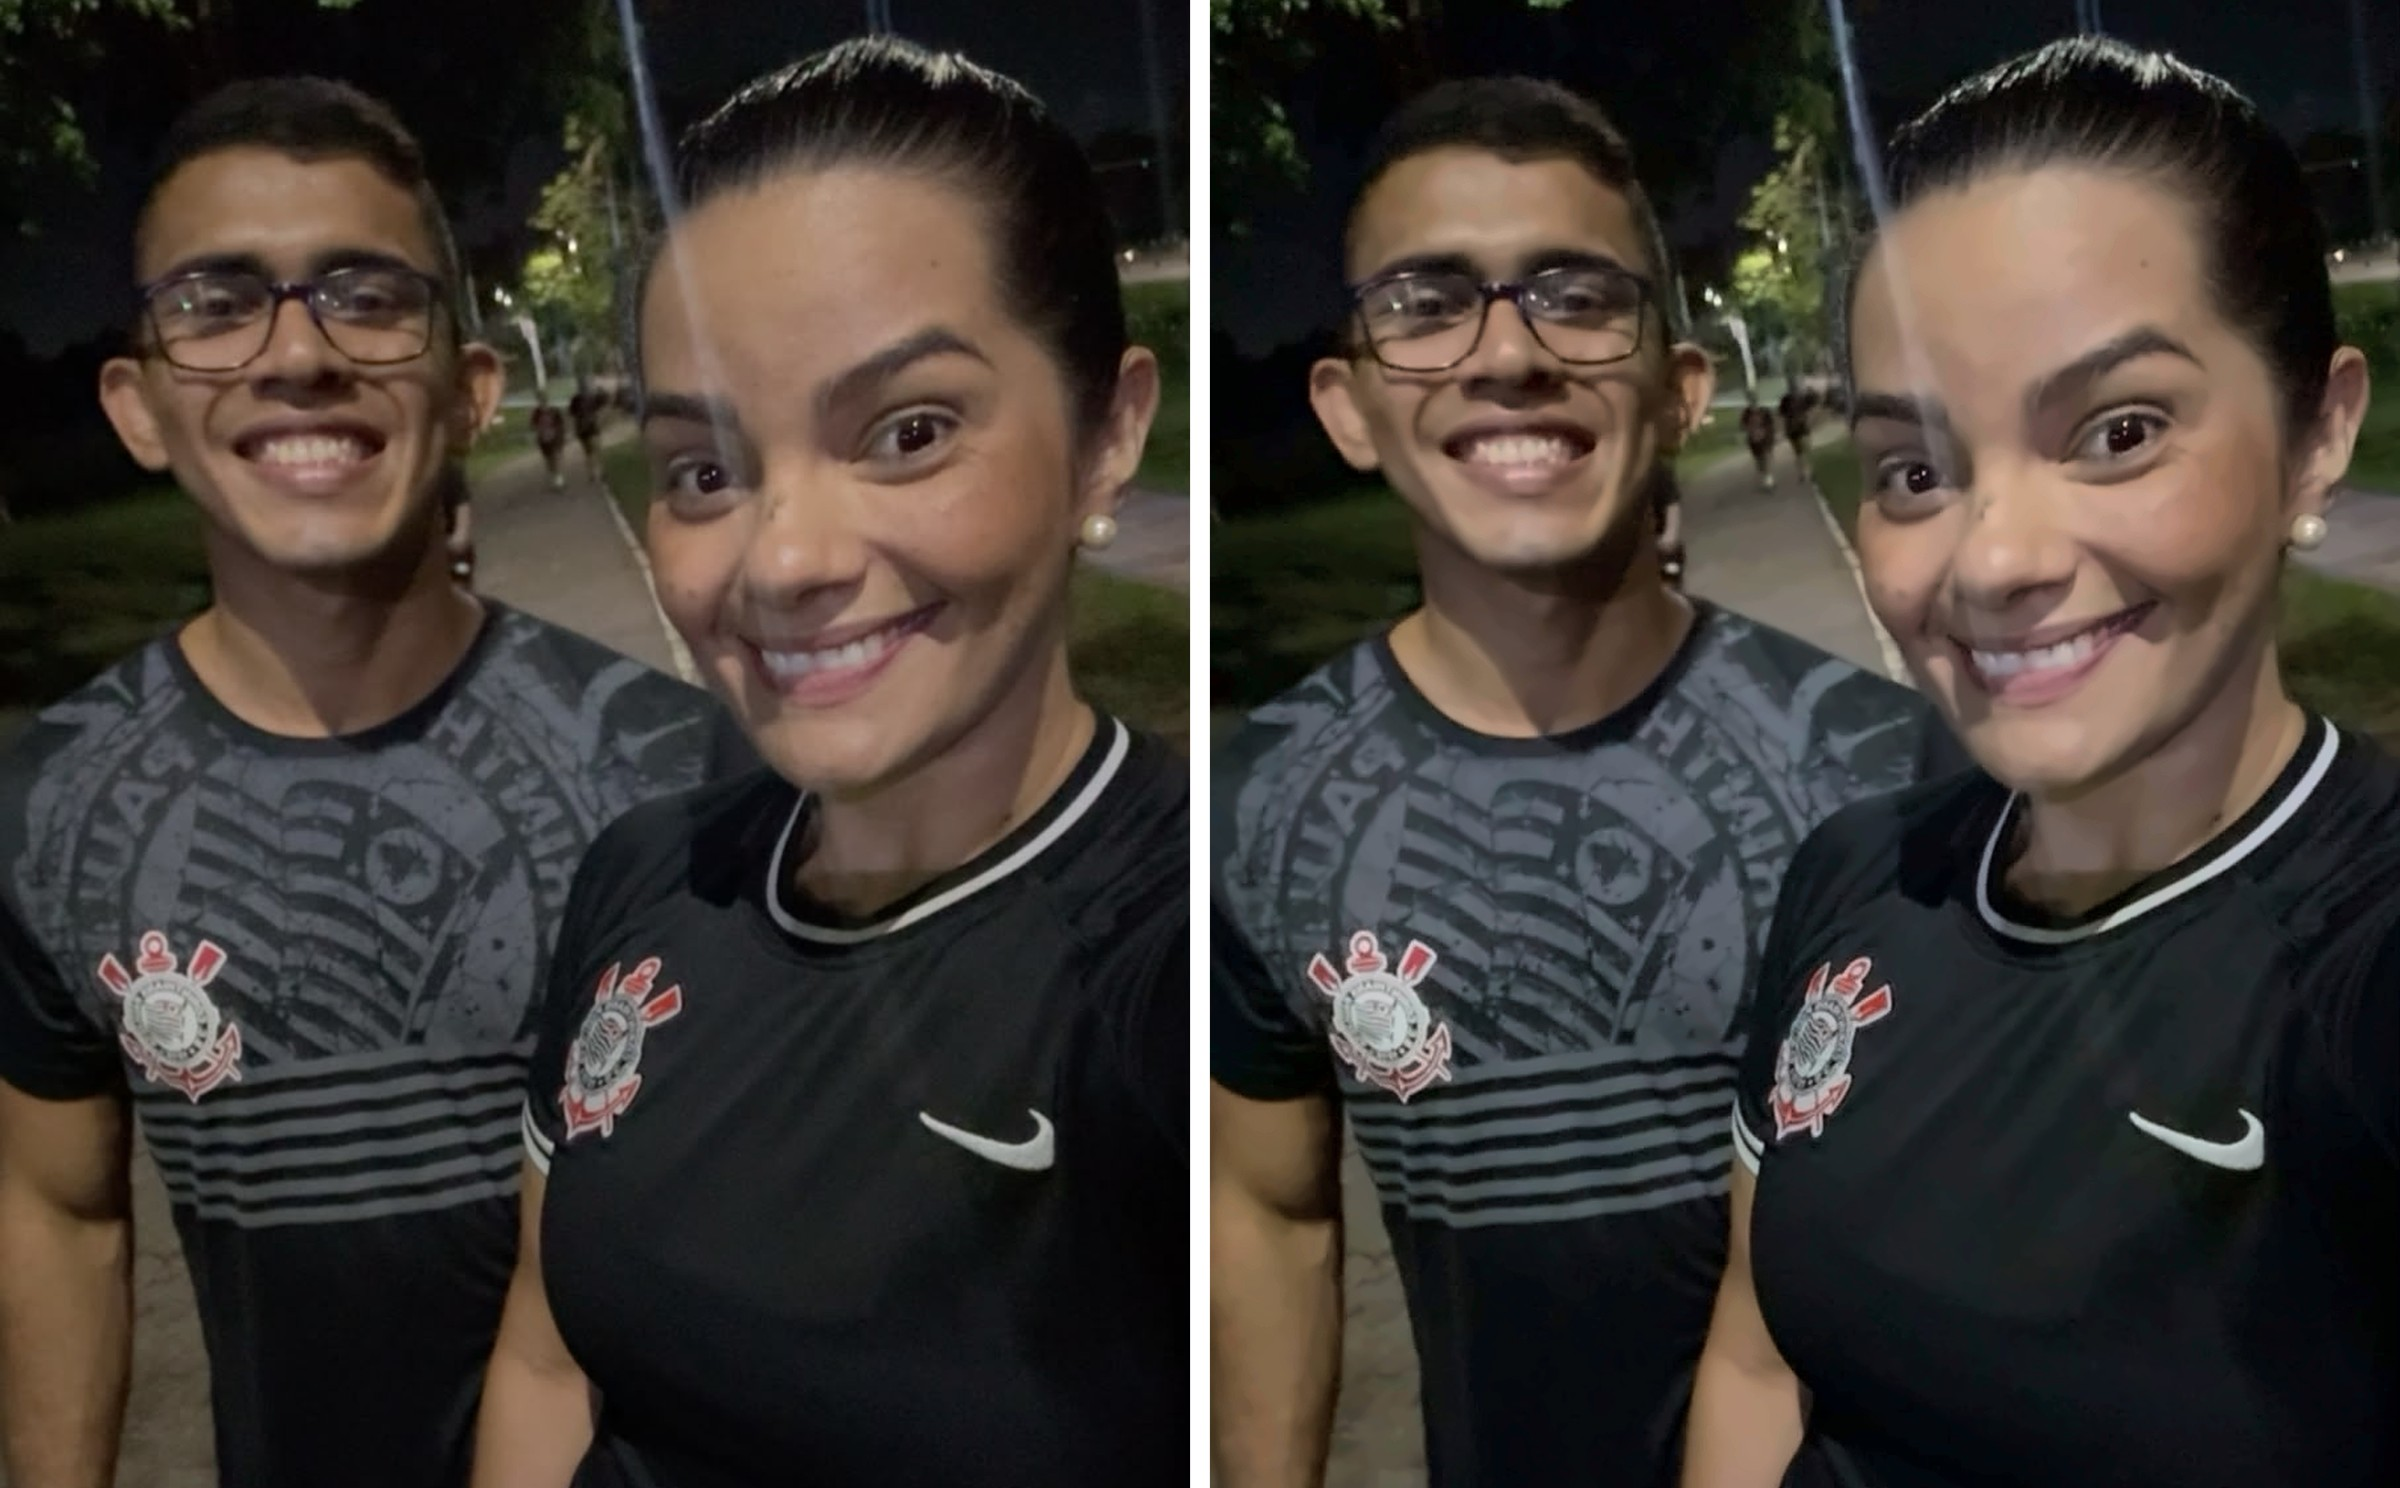
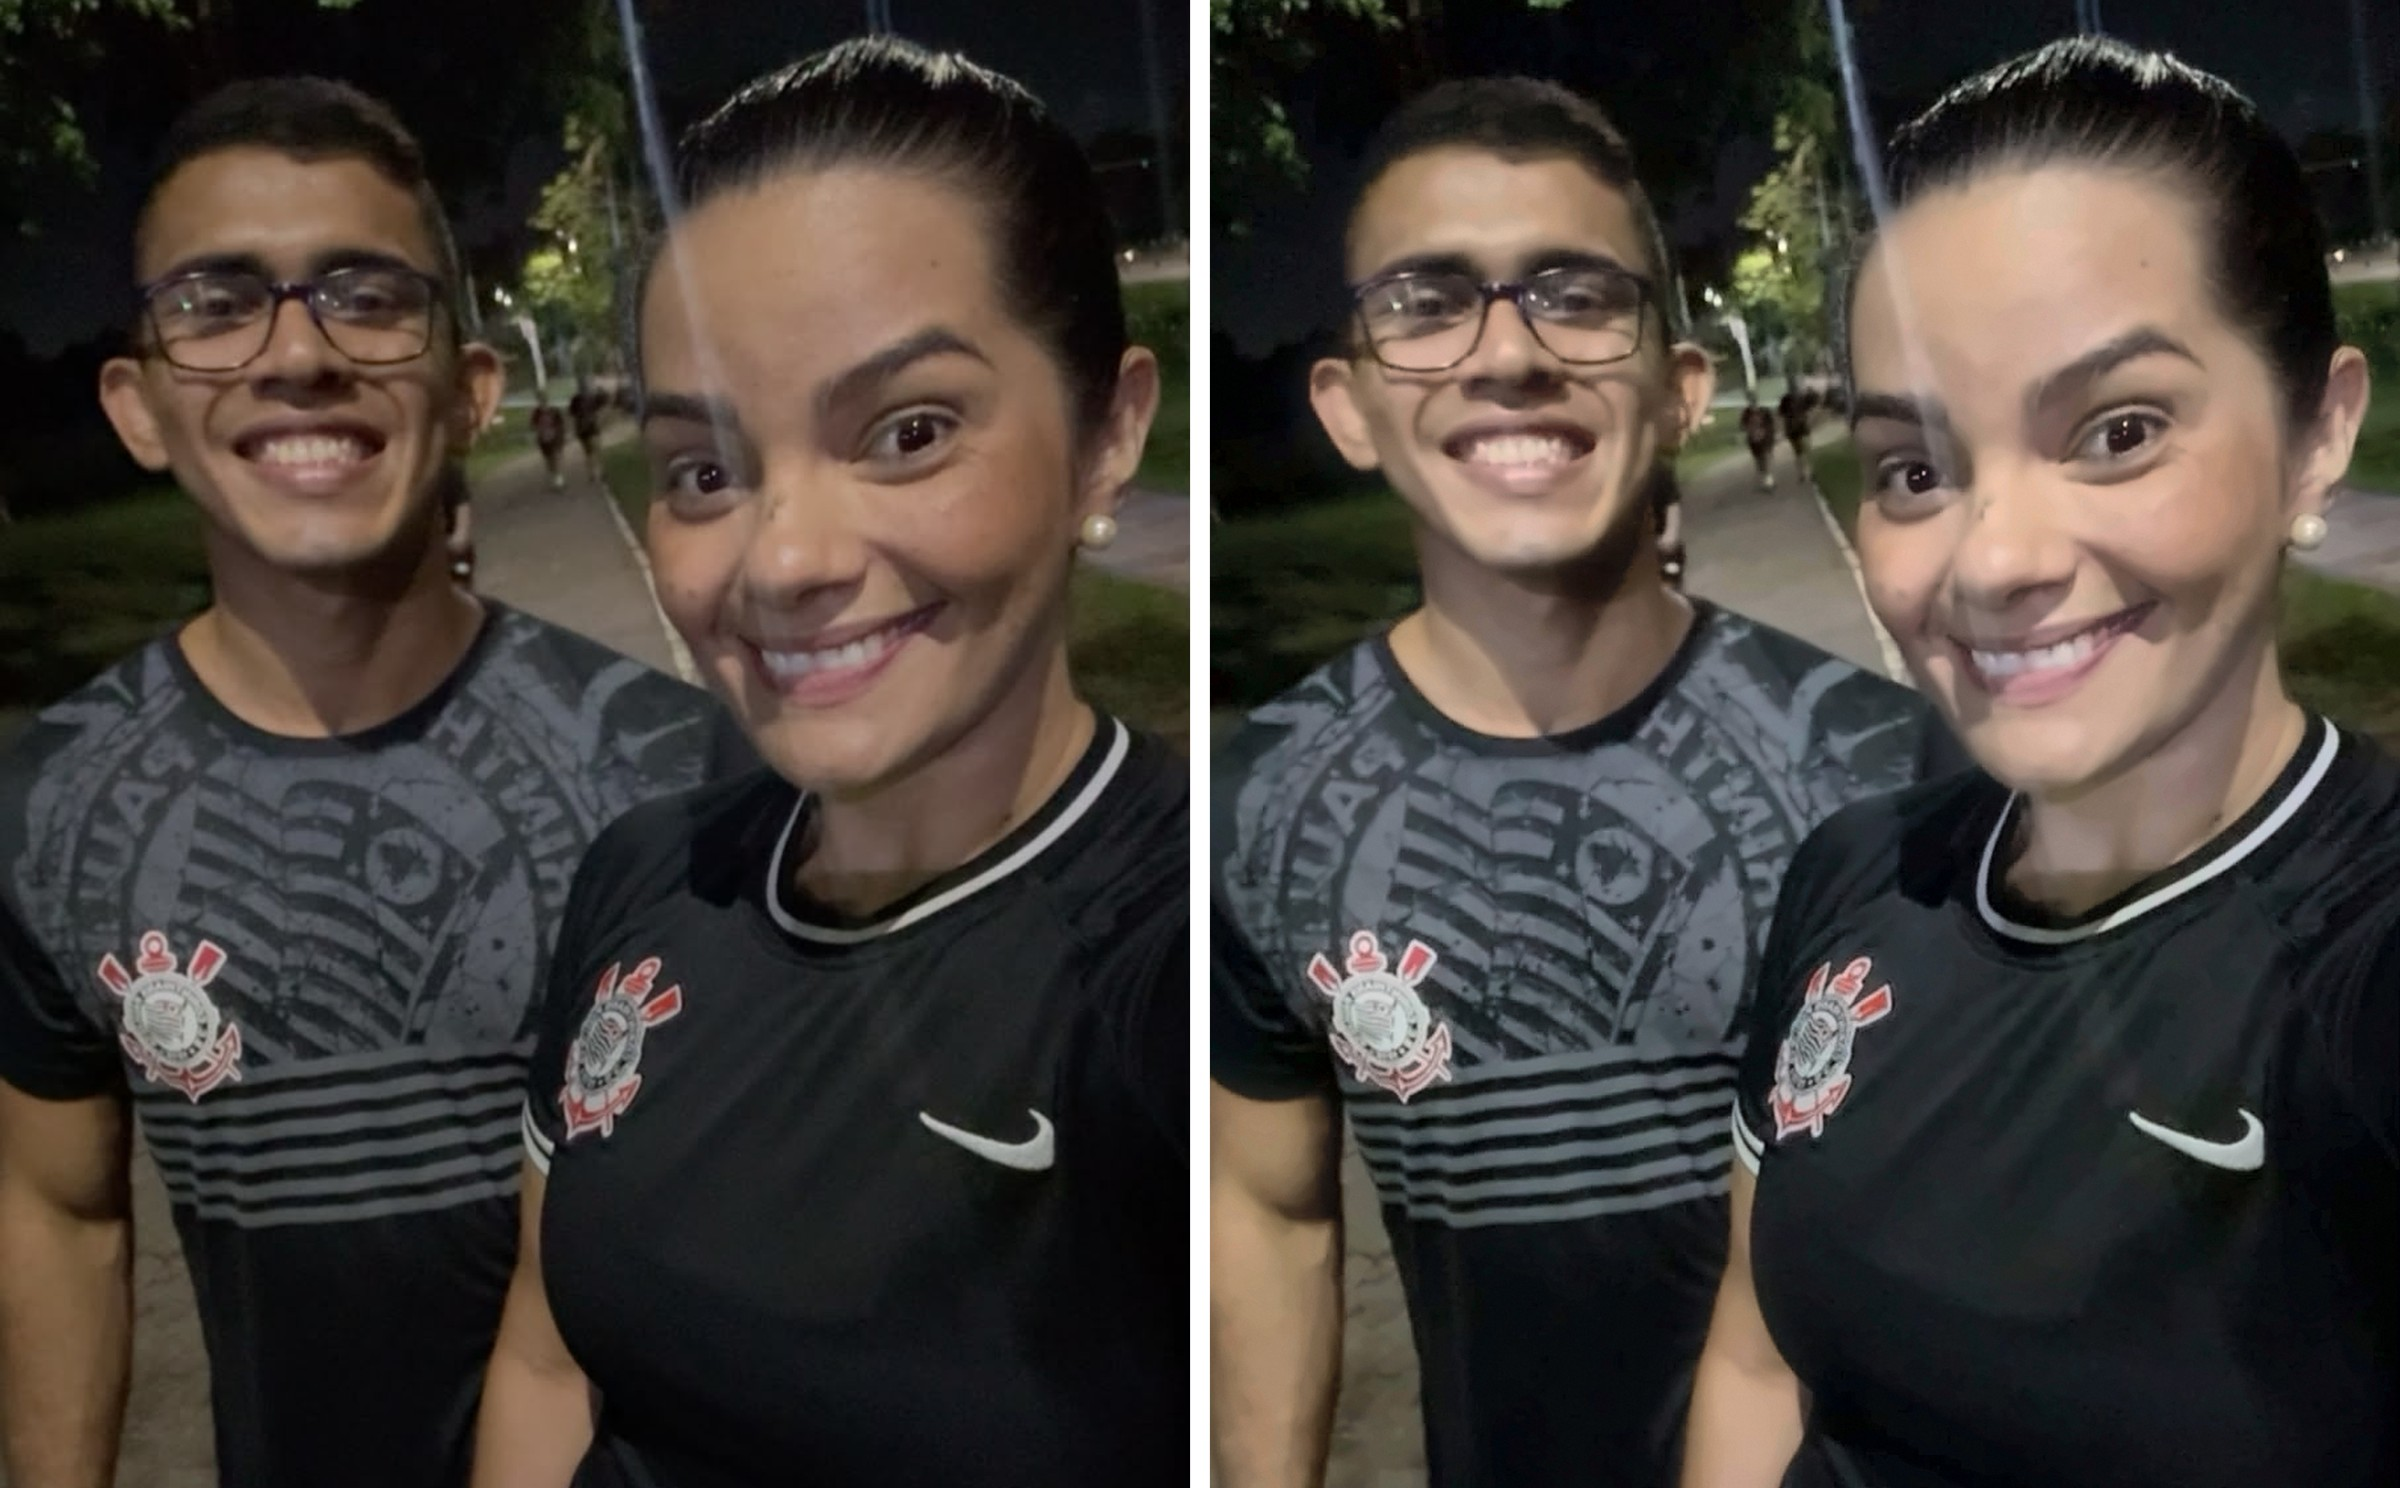
Refine photo edit: face lift, microcontrast, fine grain
Claude-Session: https://claude.ai/code/session_01FLsHLDVTsp4xBEBRKDJsCt

diff --git a/foto_edit/editar_foto.py b/foto_edit/editar_foto.py
@@ -22,6 +22,16 @@ L2=np.where(L<0.04, L*(L2.max() and 1)+ (L2-L)*(L/0.04), L2)
 lab[...,0]=np.clip(L2*255,0,255)
 # slight chroma boost compensates lifted shadows' desaturation
 lab[...,1:]=128+(lab[...,1:]-128)*1.10
+# local face lift: soft skin mask on denoised crop, +~9% luminance, feathered
+yc=cv2.cvtColor(dn,cv2.COLOR_BGR2YCrCb)
+sk=((yc[...,1]>135)&(yc[...,1]<180)&(yc[...,2]>85)&(yc[...,2]<135)&(yc[...,0]>35)).astype(np.float32)
+sk=cv2.morphologyEx(sk,cv2.MORPH_OPEN,np.ones((5,5),np.uint8))
+sk=cv2.GaussianBlur(sk,(0,0),14)
+Lc=lab[...,0]
+lab[...,0]=np.clip(Lc+sk*(255-Lc)*0.16,0,255)
+# local microcontrast (very gentle CLAHE blend)
+cl=cv2.createCLAHE(clipLimit=1.6,tileGridSize=(6,6)).apply(lab[...,0].astype(np.uint8)).astype(np.float32)
+lab[...,0]=lab[...,0]*0.7+cl*0.3
 img=cv2.cvtColor(lab.astype(np.uint8),cv2.COLOR_LAB2BGR).astype(np.float32)
 # 4) white balance: partial gray-world on mid-tones (30% strength, keeps night warmth)
 m=img.reshape(-1,3); sel=(m.mean(1)>40)&(m.mean(1)<200)
@@ -55,6 +65,9 @@ Y=np.clip(Y+0.55*d,0,255)
 loc_max=cv2.dilate(ycc[...,0],np.ones((5,5)));loc_min=cv2.erode(ycc[...,0],np.ones((5,5)))
 ycc[...,0]=np.clip(Y,loc_min-6,loc_max+6)
 final=cv2.cvtColor(np.clip(ycc,0,255).astype(np.uint8),cv2.COLOR_YCrCb2BGR)
+rng=np.random.default_rng(1)
+gr=cv2.GaussianBlur(rng.normal(0,1,final.shape[:2]).astype(np.float32),(0,0),0.7)*2.2
+final=np.clip(final.astype(np.float32)+gr[...,None],0,255).astype(np.uint8)
 fin=Image.fromarray(cv2.cvtColor(final,cv2.COLOR_BGR2RGB))
 fin.save(out+'foto_final_4x5.jpg',quality=95,subsampling=0,optimize=True)
 # before/after (original crop, upscaled same way, vs final)
